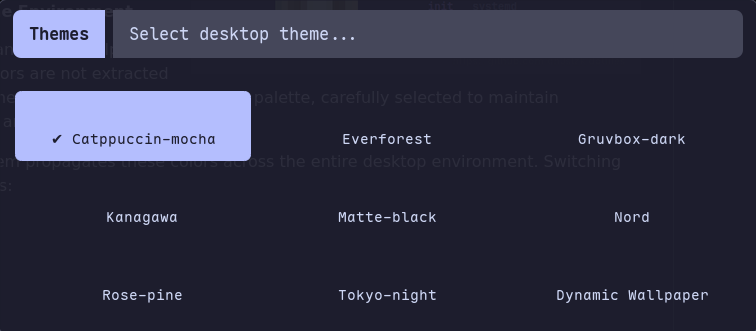
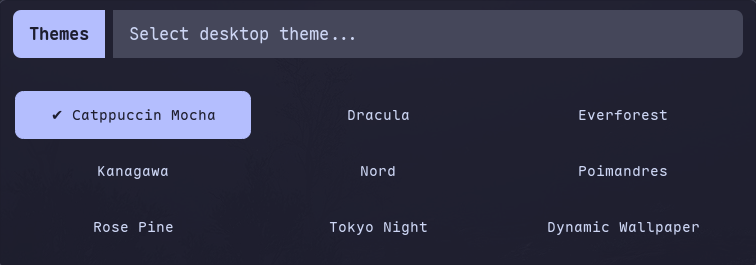
udpate theme switcher

diff --git a/config/mangobar/style.css b/config/mangobar/style.css
@@ -70,10 +70,15 @@
 #tray,
 #custom-power,
 #custom-keyviz,
-#custom-recorder {
+#custom-recorder,
+#custom-media {
     background-color: @bg;
     color: @fg;
     padding: 0 8px;
+}
+
+#custom-media {
+    color: @music_color;
 }
 
 #custom-keyviz {

diff --git a/config/mangobar/theme.css b/config/mangobar/theme.css
@@ -18,3 +18,4 @@
 @define-color session_color #f38ba8;
 @define-color recorder_color #f38ba8;
 @define-color keyviz_color #b4befe;
+@define-color music_color #94e2d5;

diff --git a/config/themes/theme-engine.py b/config/themes/theme-engine.py
@@ -22,6 +22,7 @@ import glob
 import json
 import os
 import re
+import shutil
 import subprocess
 import sys
 import time
@@ -334,6 +335,7 @@ def generate_mangobar_css(theme):
 @define-color session_color {value(theme, 'session', value(theme, 'ws_urgent'))};
 @define-color recorder_color {value(theme, 'recorder', value(theme, 'ws_urgent'))};
 @define-color keyviz_color {value(theme, 'accent')};
+@define-color music_color {value(theme, 'music', value(theme, 'accent_alt'))};
 """
 
 def generate_rofi_shared_rasi(theme):
@@ -374,6 +376,7 @@ def generate_palette_css(theme):
         "ram_color": value(theme, "ram", "#7dcfff"),
         "keyviz_color": value(theme, "accent", "#7aa2f7"),
         "recorder_color": value(theme, "ws_urgent", "#f7768e"),
+        "music_color": value(theme, "music", value(theme, "accent_alt", "#7dcfff")),
         "ws_focused": value(theme, "ws_focused", "#7aa2f7"),
         "ws_occupied": value(theme, "ws_occupied", "#bb9af7"),
         "ws_empty": value(theme, "ws_empty", "#565f89"),
@@ -999,11 +1002,8 @@ def broadcast_term_colors(theme):
         except OSError:
             pass
 
-def reload_subsystems():
-    """Reload MangoWC, Mako, MangoBar, and Thunar-related processes."""
-    run_quiet(["makoctl", "reload"])
-    run_quiet(["mmsg", "dispatch", "reload_config"])
-
+def restart_mangobar():
+    """Cleanly and quickly restart mangobar (or start it if not running)."""
     bar_check = subprocess.run(
         ["pgrep", "-x", "mangobar"],
         capture_output=True,
@@ -1013,17 +1013,47 @@ def reload_subsystems():
 
     if bar_check.returncode == 0 and bar_check.stdout.strip():
         run_quiet(["pkill", "-x", "mangobar"])
-        time.sleep(0.2)
-
-        try:
-            subprocess.Popen(
-                ["mangobar"],
-                stdout=subprocess.DEVNULL,
-                stderr=subprocess.DEVNULL,
-                start_new_session=True,
+        # Wait up to 300ms for old instance to exit cleanly
+        for _ in range(30):
+            poll = subprocess.run(
+                ["pgrep", "-x", "mangobar"],
+                capture_output=True,
+                text=True,
+                check=False,
             )
-        except OSError:
-            pass
+            if poll.returncode != 0 or not poll.stdout.strip():
+                break
+            time.sleep(0.01)
+        else:
+            run_quiet(["pkill", "-9", "-x", "mangobar"])
+            time.sleep(0.02)
+
+    mangobar_bin = shutil.which("mangobar")
+    if not mangobar_bin or not os.access(mangobar_bin, os.X_OK):
+        candidate = os.path.expanduser("~/.local/bin/mangobar")
+        if os.path.exists(candidate) and os.access(candidate, os.X_OK):
+            mangobar_bin = candidate
+        else:
+            mangobar_bin = "mangobar"
+
+    try:
+        subprocess.Popen(
+            [mangobar_bin],
+            stdout=subprocess.DEVNULL,
+            stderr=subprocess.DEVNULL,
+            start_new_session=True,
+            env=os.environ.copy(),
+        )
+    except OSError:
+        pass
+
+def reload_subsystems(restart_bar=False):
+    """Reload MangoWC, Mako, MangoBar, and Thunar-related processes."""
+    run_quiet(["makoctl", "reload"])
+    run_quiet(["mmsg", "dispatch", "reload_config"])
+
+    if restart_bar:
+        restart_mangobar()
 
     run_quiet(["thunar", "-q"])
     alacritty_check = subprocess.run(
@@ -1141,9 +1171,20 @@ def apply_theme(theme_id, set_wallpaper=True):
         os.path.join(GENERATED_DIR, "mangobar.css"),
         mangobar_css,
     )
+    user_mangobar_theme = os.path.expanduser("~/.config/mangobar/theme.css")
+    if os.path.exists(os.path.dirname(user_mangobar_theme)) and not os.path.islink(user_mangobar_theme):
+        try:
+            write_file(user_mangobar_theme, mangobar_css)
+        except OSError:
+            pass
+
+    # MangoWM config and immediate primary UI reload (MangoWM, Mako, MangoBar)
+    update_mango_conf(theme)
+    run_quiet(["mmsg", "dispatch", "reload_config"])
+    run_quiet(["makoctl", "reload"])
+    restart_mangobar()
 
     # Desktop configuration
-    update_mango_conf(theme)
     update_gtk_theme(theme)
     update_papirus_icons(theme)
     update_gsettings(theme)
@@ -1168,9 +1209,9 @@ def apply_theme(theme_id, set_wallpaper=True):
     if set_wallpaper:
         switch_wallpaper(theme_id, theme)
 
-    # Terminal colors and live reload
+    # Terminal colors and remaining subsystem reload
     broadcast_term_colors(theme)
-    reload_subsystems()
+    reload_subsystems(restart_bar=False)
 
     # Notification
     theme_name = theme.get("name", theme_id)

diff --git a/config/themes/theme.py b/config/themes/theme.py
@@ -1,0 +1,1 @@
+/home/hj/wm/config/themes/theme-engine.py
